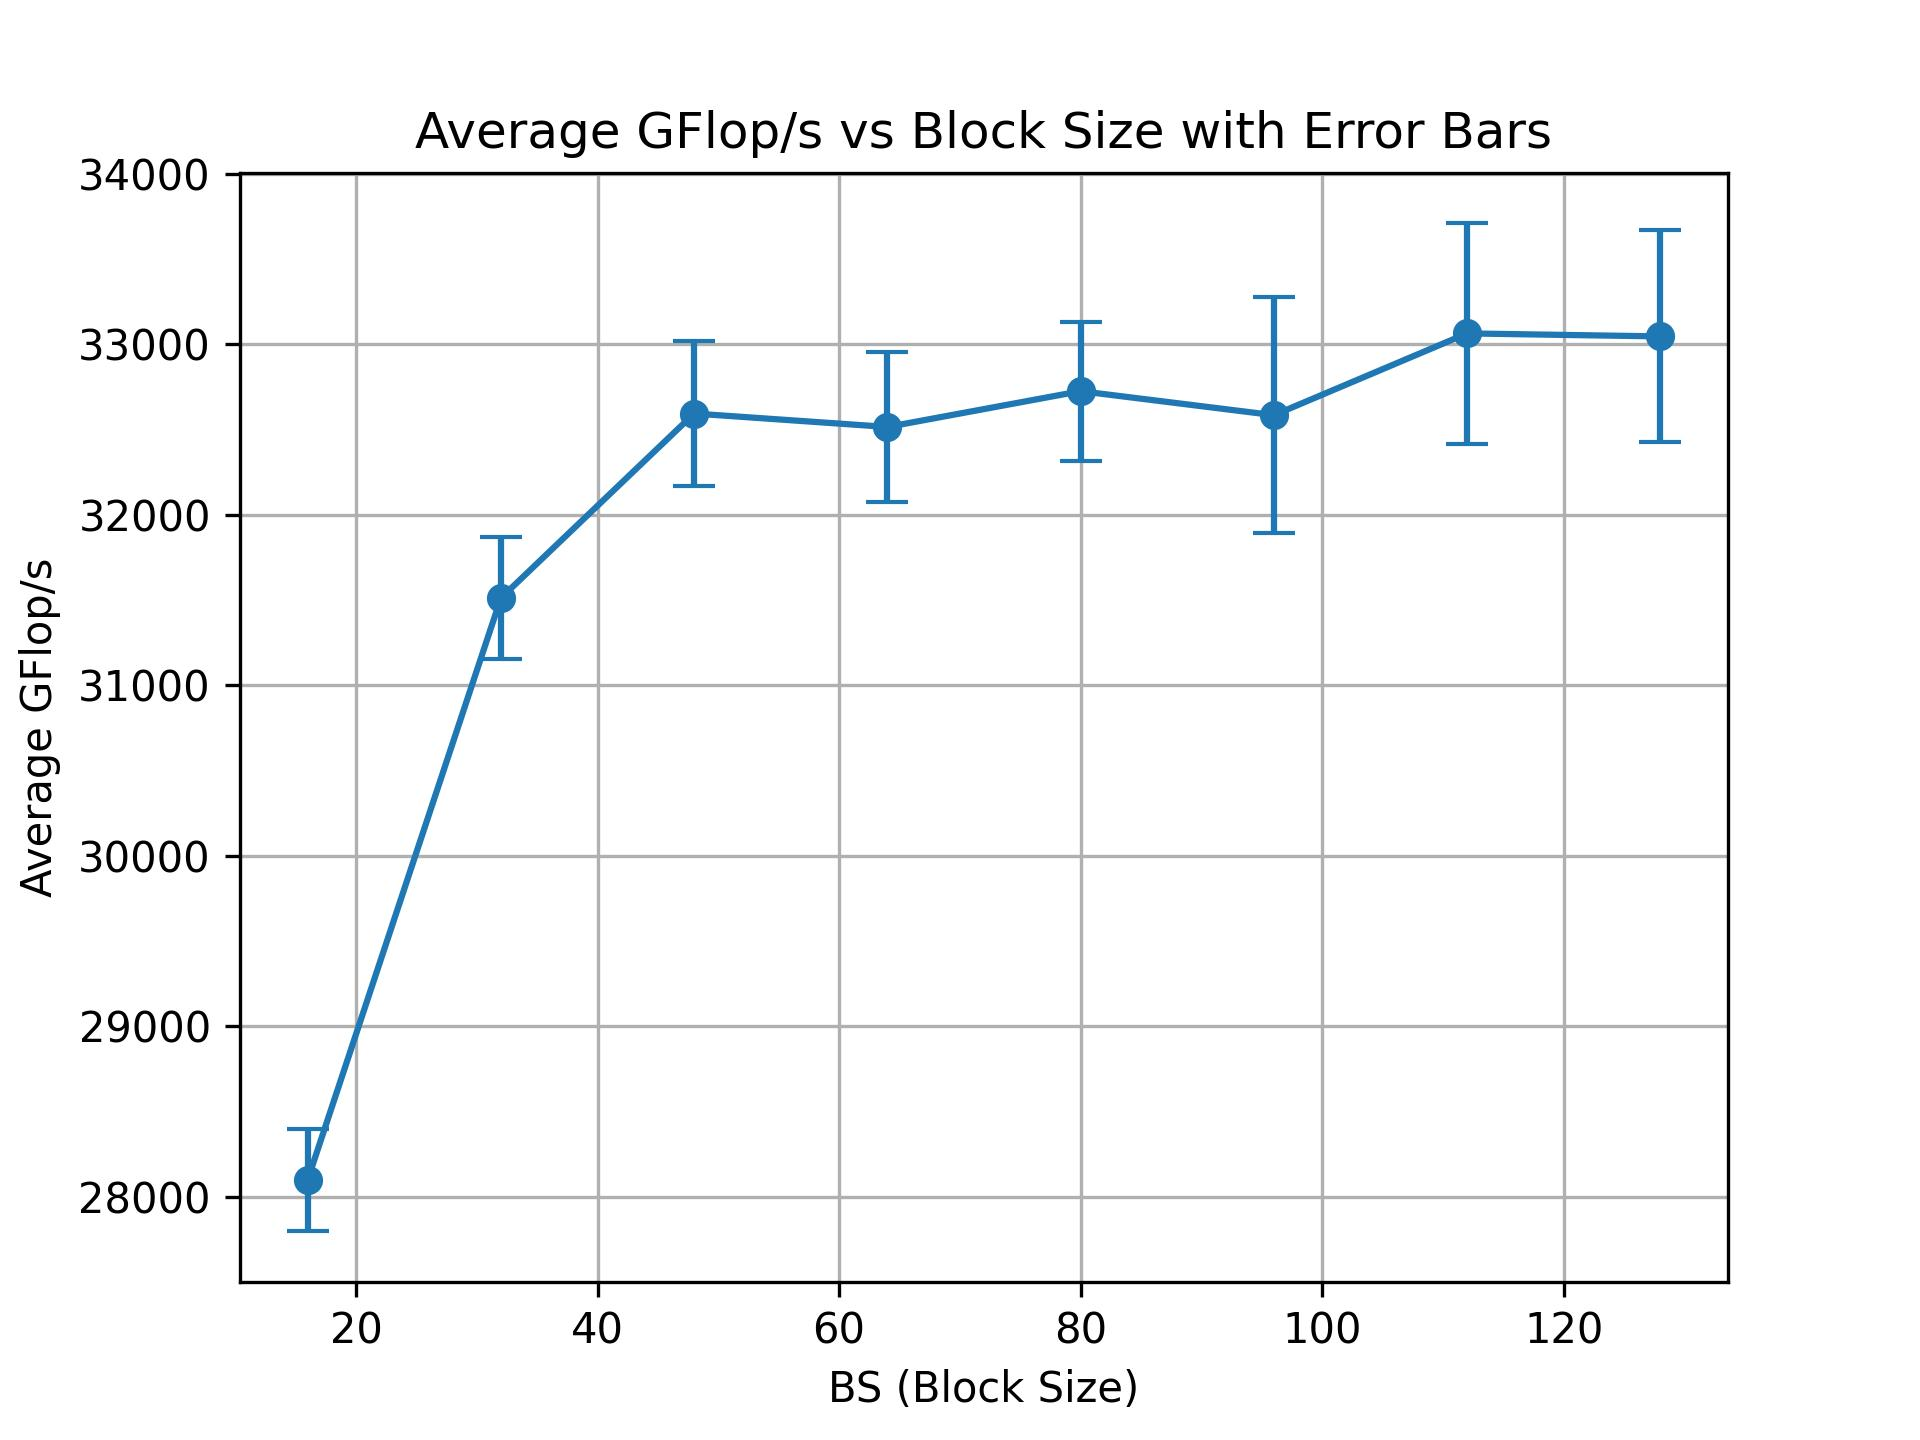
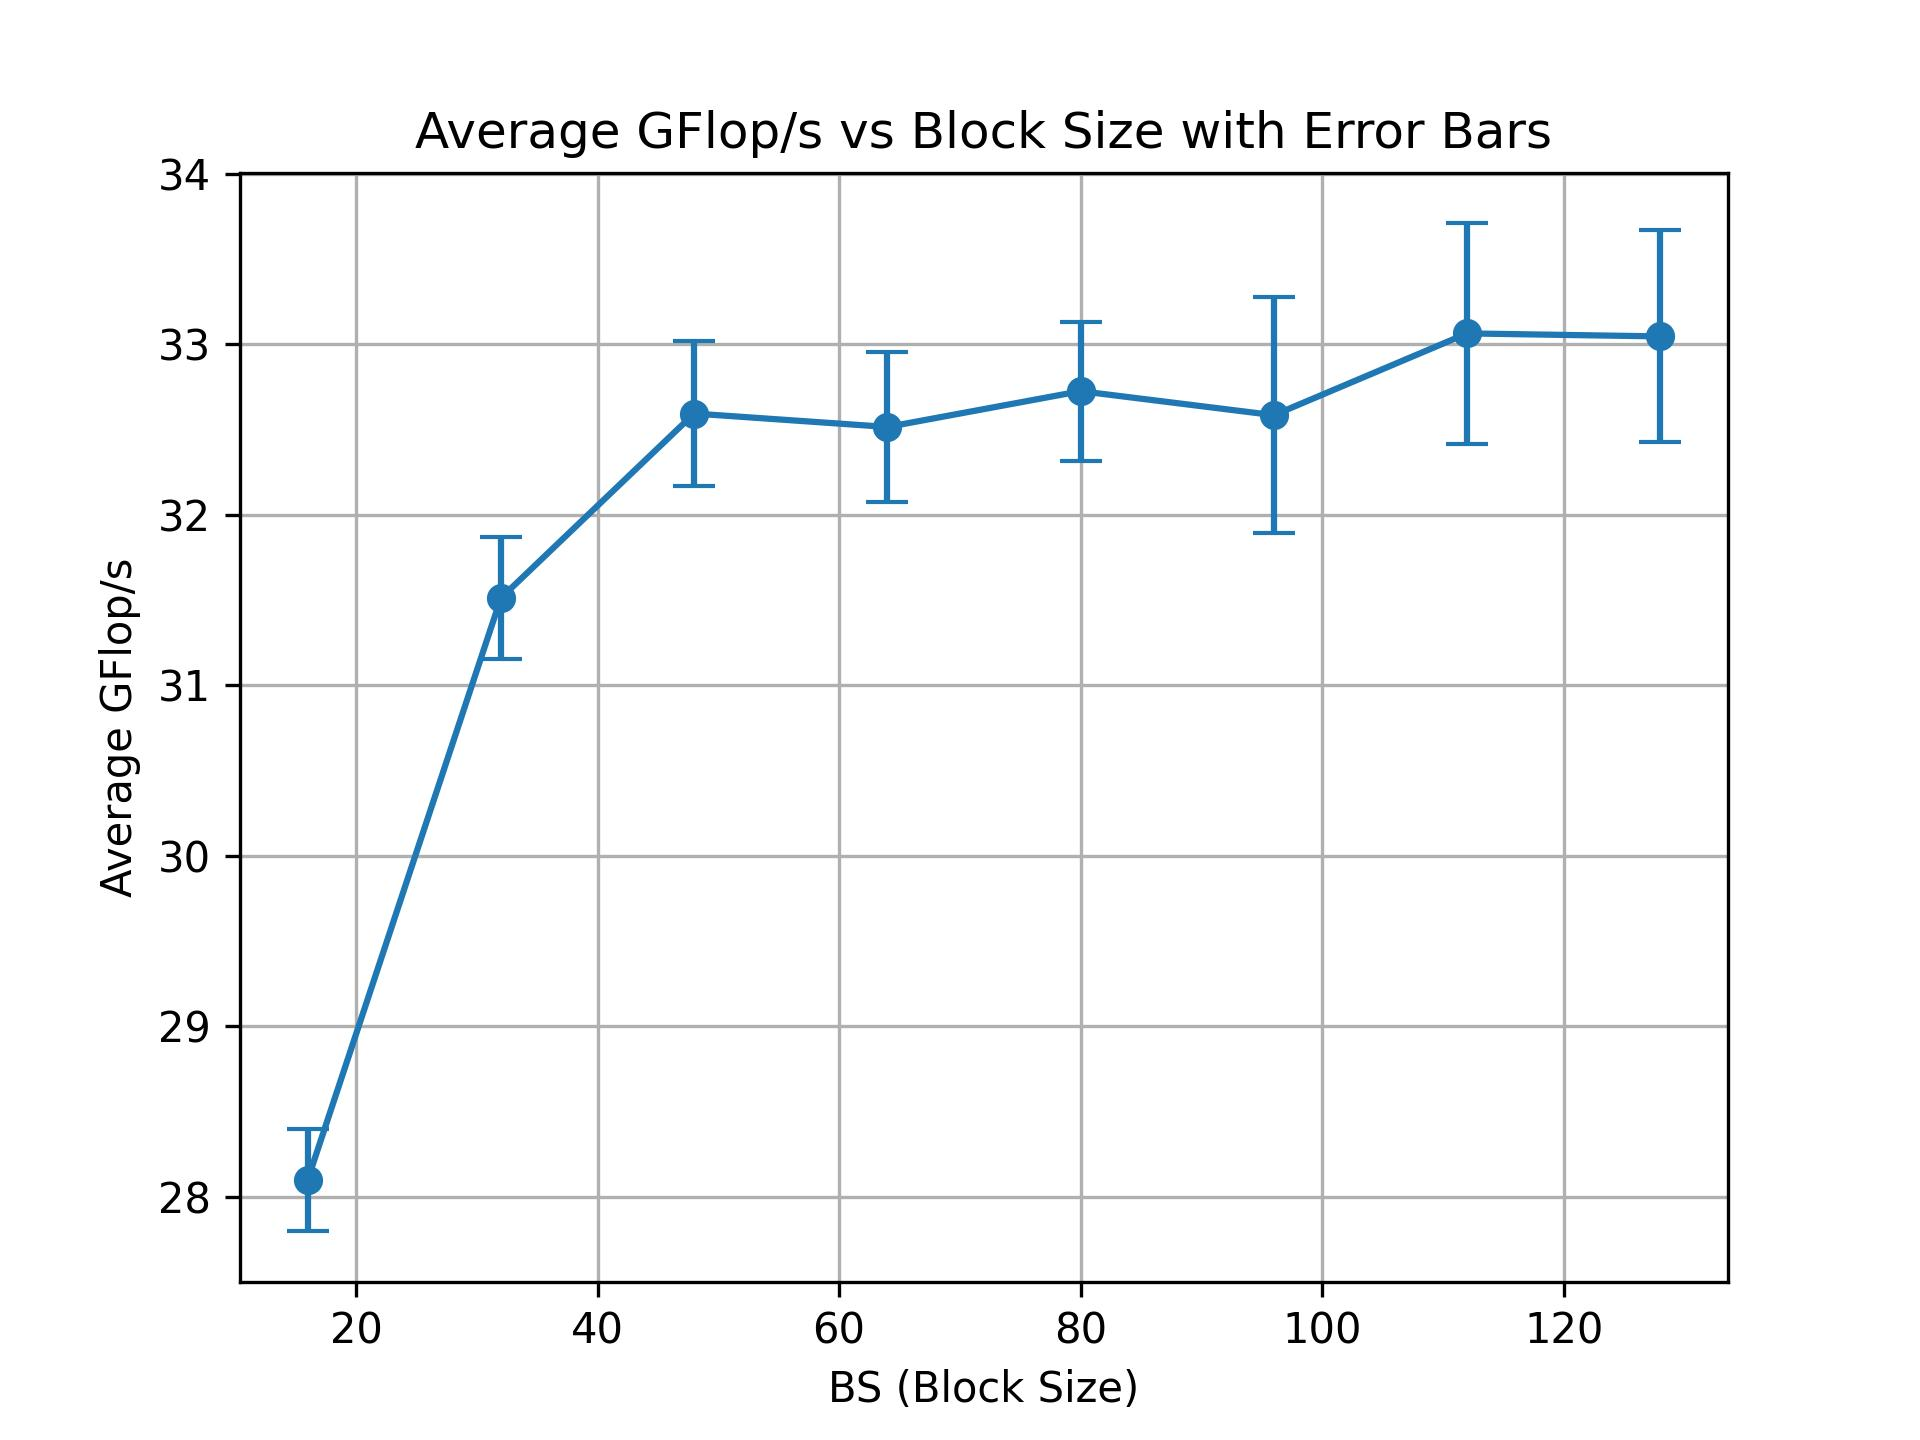
revised 03-blcok.jpg and add 05-unroll.jpg

diff --git a/matmul-project/logs/block-perf.py b/matmul-project/logs/block-perf.py
@@ -3,7 +3,7 @@ import numpy as np
 import matplotlib.pyplot as plt
 
 # Read the log fileb
-log_file = "03-block.log"
+log_file = "05-unroll.log"
 with open(log_file, "r") as file:
     lines = file.readlines()
 
@@ -29,6 +29,7 @@ variances = []
 
 for bs, values in data.items():
     bs_values.append(bs)
+    values = np.divide(values, 1000)
     avg = np.mean(values)
     var = np.var(values)
     averages.append(avg)
@@ -40,4 +41,4 @@ plt.xlabel("BS (Block Size)")
 plt.ylabel("Average GFlop/s")
 plt.title("Average GFlop/s vs Block Size with Error Bars")
 plt.grid(True)
-plt.savefig('03-block.jpg', dpi=300)
+plt.savefig('05-unroll.jpg', dpi=300)
